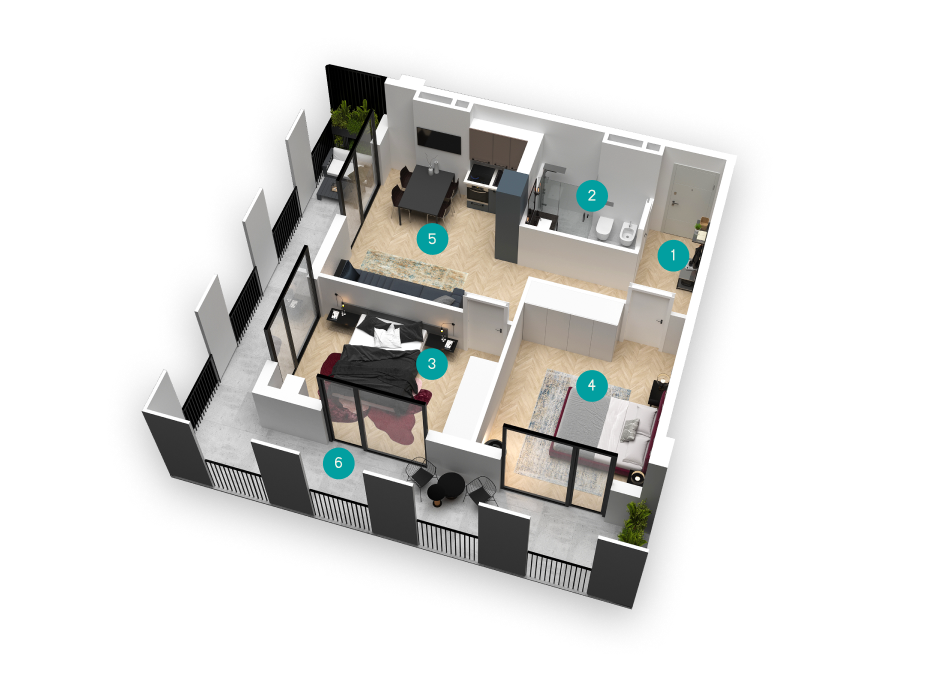
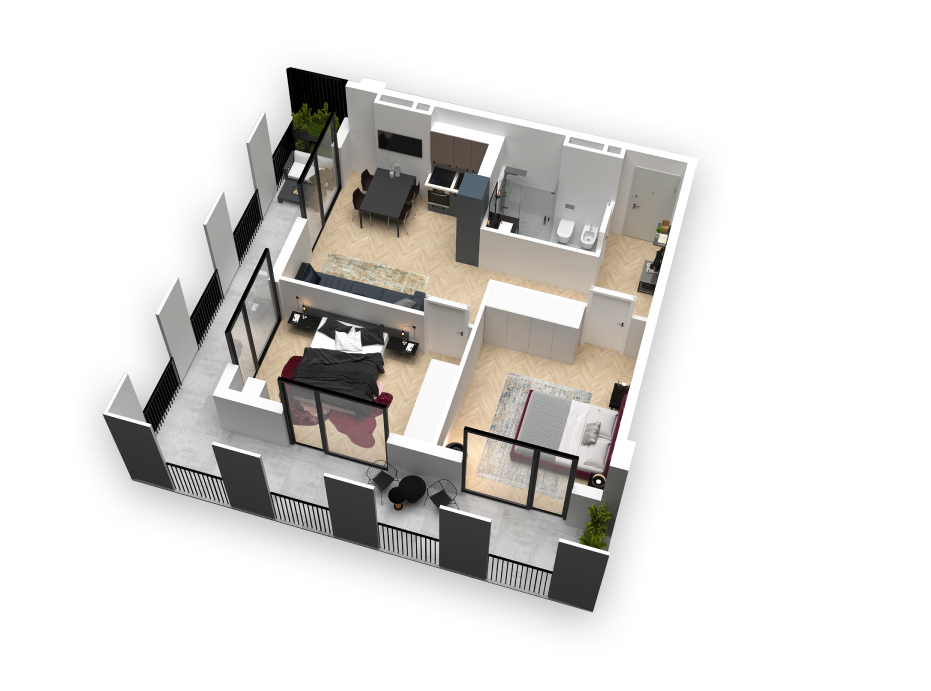
positioning numbers

Changed region(s): [[0.0934, 0.0912, 0.8099, 0.9117]]

diff --git a/src/components/Apartments/apartmentsInner/Apartment90.js b/src/components/Apartments/apartmentsInner/Apartment90.js
@@ -5,61 +5,36 @@ import logo from '../../../images/logo.svg'
 import './ApartmentInnerCSS.css'
 import m102inner from '../../../images/innerRenders/m90inner.png'
 
-const roomsArr = [
-    {   
-        id: 1,
-        number:1,
-        roomTypeGeo: 'ჰოლი',
-        roomTypeEng: 'Hall',
-        roomTypeRus: 'aaaa',
-        m2: '12.4 M2'      
-    },
+const pointerStyle6 ={
+    left: '30%',
+    top: '64%'
+}
 
-    {   
-        id: 2,
-        number:2,
-        roomTypeGeo: 'სააბაზანო',
-        roomTypeEng: 'Hall',
-        roomTypeRus: 'aaaa',
-        m2: '5.1 M2'
-    },
+const pointerStyle5 ={
+    left: '40%',
+    top: '33%'
+}
 
-    {
-        id: 3,
-        number:3,
-        roomTypeGeo: 'საძინებელი 1',
-        roomTypeEng: 'Hall',
-        roomTypeRus: 'aaaa',
-        m2: '13.4 M2'
-    },
+const pointerStyle4 ={
+    right: '38%',
+    top: '53%'
+}
 
-    {
-        id: 4,
-        number:4,
-        roomTypeGeo: 'საძინებელი 2',
-        roomTypeEng: 'Hall',
-        roomTypeRus: 'aaaa',
-        m2: '14 M2'
-    },
+const pointerStyle3 ={
+    right: '57%',
+    top: '50%'
+}
 
-    {
-        id: 5,
-        number:5,
-        roomTypeGeo: 'სტუდიო',
-        roomTypeEng: 'Hall',
-        roomTypeRus: 'aaaa',
-        m2: '30.6 M2'
-    },
+const pointerStyle2 ={
+    right: '38%',
+    top: '26%'
+}
 
-    {
-        id: 6,
-        number:6,
-        roomTypeGeo: 'აივანი',
-        roomTypeEng: 'Hall',
-        roomTypeRus: 'aaaa',
-        m2: '27.3 M2'
-    }
-]
+const pointerStyle1 ={
+    right: '30%',
+    top: '35%'
+}
+
 
 export default function Apartment90() {
 
@@ -78,6 +53,14 @@ export default function Apartment90() {
     const [roomGeo, setRoomGeo] = useState(null)
     const [roomEng, setRoomEng] = useState(null)
     const [roomRus, setRoomRus] = useState(null)
+
+    const [ballNumber, setBallNumber] = useState(null)
+    const [ball1txt, setBall1txt] = useState(null)
+    const [ball2txt, setBall2txt] = useState(null)
+    const [ball3txt, setBall3txt] = useState(null)
+    const [ball4txt, setBall4txt] = useState(null)
+    const [ball5txt, setBall5txt] = useState(null)
+    const [ball6txt, setBall6txt] = useState(null)
 
     useEffect(()=>{
         setIsEng(false)
@@ -156,6 +139,69 @@ export default function Apartment90() {
         setIsGeo(false)
         localStorage.setItem('language', 'rus')
     }
+    
+
+    const roomsArr = [
+        {   
+            id: 1,
+            number:1,
+            roomTypeGeo: 'ჰოლი',
+            roomTypeEng: 'Hall',
+            roomTypeRus: 'aaaa',
+            m2: '12.4 M2',
+            forBold: `${ball1txt}`   
+        },
+    
+        {   
+            id: 2,
+            number:2,
+            roomTypeGeo: 'სააბაზანო',
+            roomTypeEng: 'Hall',
+            roomTypeRus: 'aaaa',
+            m2: '5.1 M2',
+            forBold: `${ball2txt}`
+        },
+    
+        {
+            id: 3,
+            number:3,
+            roomTypeGeo: 'საძინებელი 1',
+            roomTypeEng: 'Hall',
+            roomTypeRus: 'aaaa',
+            m2: '13.4 M2',
+            forBold: `${ball3txt}`
+        },
+    
+        {
+            id: 4,
+            number:4,
+            roomTypeGeo: 'საძინებელი 2',
+            roomTypeEng: 'Hall',
+            roomTypeRus: 'aaaa',
+            m2: '14 M2',
+            forBold: `${ball4txt}`
+        },
+    
+        {
+            id: 5,
+            number:5,
+            roomTypeGeo: 'სტუდიო',
+            roomTypeEng: 'Hall',
+            roomTypeRus: 'aaaa',
+            m2: '30.6 M2',
+            forBold: `${ball5txt}`
+        },
+    
+        {
+            id: 6,
+            number:6,
+            roomTypeGeo: 'აივანი',
+            roomTypeEng: 'Hall',
+            roomTypeRus: 'aaaa',
+            m2: '27.3 M2',
+            forBold: `${ball6txt}`
+        }
+    ]
 
     return(
         <>
@@ -184,6 +230,118 @@ export default function Apartment90() {
 
                 <div className="apartment_main_inner_left">
                     <img src={m102inner} alt="m102inner" />
+
+                    <span style={pointerStyle6} className="pointers"
+                        onClick={()=>{
+                            if(ballNumber === 6){
+                                setBallNumber(null)
+                                setBall6txt(null)
+                            }else{
+                                setBallNumber(6)
+                                setBall6txt('bold')
+
+                                setBall1txt(null)
+                                setBall2txt(null)
+                                setBall3txt(null)
+                                setBall4txt(null)
+                                setBall5txt(null)
+                            }
+                        }}
+                    >6</span>
+
+                    <span style={pointerStyle5} className="pointers"
+                        onClick={()=>{
+                            if(ballNumber === 5){
+                                setBallNumber(null)
+                                setBall5txt(null)
+                            }else{
+                                setBallNumber(5)
+                                setBall5txt('bold')
+
+                                setBall1txt(null)
+                                setBall2txt(null)
+                                setBall3txt(null)
+                                setBall4txt(null)
+                                setBall6txt(null)
+                            }
+                        }}
+                    >5</span>
+
+                    <span style={pointerStyle4} className="pointers"
+                        onClick={()=>{
+                            if(ballNumber === 4){
+                                setBallNumber(null)
+                                setBall4txt(null)
+                            }else{
+                                setBallNumber(4)
+                                setBall4txt('bold')
+
+                                setBall1txt(null)
+                                setBall2txt(null)
+                                setBall3txt(null)
+                                setBall5txt(null)
+                                setBall6txt(null)
+                            }
+                        }}
+                    >4</span>
+
+                    <span style={pointerStyle3} className="pointers"
+                        onClick={()=>{
+                            if(ballNumber === 3){
+                                setBallNumber(null)
+                                setBall3txt(null)
+                            }else{
+                                setBallNumber(3)
+                                setBall3txt('bold')
+
+                                setBall1txt(null)
+                                setBall2txt(null)
+                                setBall4txt(null)
+                                setBall5txt(null)
+                                setBall6txt(null)
+                            }
+                        }}
+                    >3</span>
+
+                    <span style={pointerStyle2} className="pointers"
+                    onClick={()=>{
+                        if(ballNumber === 2){
+                            setBallNumber(null)
+                            setBall2txt(null)
+                        }else{
+                            setBallNumber(2)
+                            setBall2txt('bold')
+                            
+                            setBall1txt(null)
+                            setBall3txt(null)
+                            setBall4txt(null)
+                            setBall5txt(null)
+                            setBall6txt(null)
+                        }
+                    }}
+                    >2</span>
+
+                    <span 
+                        style={pointerStyle1} 
+                        className="pointers" 
+                        onClick={()=> {
+                            if(ballNumber === 1){
+                                setBallNumber(null)
+                                setBall1txt(null)
+                            }else{
+                                setBallNumber(1)
+                                setBall1txt('bold')
+
+                                setBall2txt(null)
+                                setBall3txt(null)
+                                setBall4txt(null)
+                                setBall5txt(null)
+                                setBall6txt(null)
+                            }
+                        }
+                            
+                        }
+                        >1</span>
                 </div>
 
                 <div className="apartment_main_inner_right">
@@ -198,12 +356,12 @@ export default function Apartment90() {
                                         <div className="number_name">
                                             <div className="numberRounded">{room.number}</div>
 
-                                            <p className={roomGeo}>{room.roomTypeGeo}</p>
-                                            <p className={roomEng}>{room.roomTypeEng}</p>
-                                            <p className={roomRus}>{room.roomTypeRus}</p>
+                                            <p className={roomGeo}><span className={room.forBold}>{room.roomTypeGeo}</span></p>
+                                            <p className={roomEng}><span className={room.forBold}>{room.roomTypeEng}</span></p>
+                                            <p className={roomRus}><span className={room.forBold}>{room.roomTypeRus}</span></p>
                                         </div>
 
-                                        <p>{room.m2}</p>
+                                        <p className={room.forBold}>{room.m2}</p>
                                     </div>
                                 </div>
                             )

diff --git a/src/components/Apartments/apartmentsInner/Apartment102.js b/src/components/Apartments/apartmentsInner/Apartment102.js
@@ -5,61 +5,6 @@ import logo from '../../../images/logo.svg'
 import './ApartmentInnerCSS.css'
 import m102inner from '../../../images/innerRenders/m102inner.png'
 
-const roomsArr = [
-    {   
-        id: 1,
-        number:1,
-        roomTypeGeo: 'ჰოლი',
-        roomTypeEng: 'Hall',
-        roomTypeRus: 'aaaa',
-        m2: '6.8 M2'      
-    },
-
-    {   
-        id: 2,
-        number:2,
-        roomTypeGeo: 'სააბაზანო',
-        roomTypeEng: 'Hall',
-        roomTypeRus: 'aaaa',
-        m2: '4.1 M2'
-    },
-
-    {
-        id: 3,
-        number:3,
-        roomTypeGeo: 'საძინებელი 1',
-        roomTypeEng: 'Hall',
-        roomTypeRus: 'aaaa',
-        m2: '12 M2'
-    },
-
-    {
-        id: 4,
-        number:4,
-        roomTypeGeo: 'საძინებელი 2',
-        roomTypeEng: 'Hall',
-        roomTypeRus: 'aaaa',
-        m2: '11.8 M2'
-    },
-
-    {
-        id: 5,
-        number:5,
-        roomTypeGeo: 'სტუდიო',
-        roomTypeEng: 'Hall',
-        roomTypeRus: 'aaaa',
-        m2: '18.5 M2'
-    },
-
-    {
-        id: 6,
-        number:6,
-        roomTypeGeo: 'აივანი',
-        roomTypeEng: 'Hall',
-        roomTypeRus: 'aaaa',
-        m2: '21.8 M2'
-    }
-]
 
 const pointerStyle6 ={
     left: '21%',
